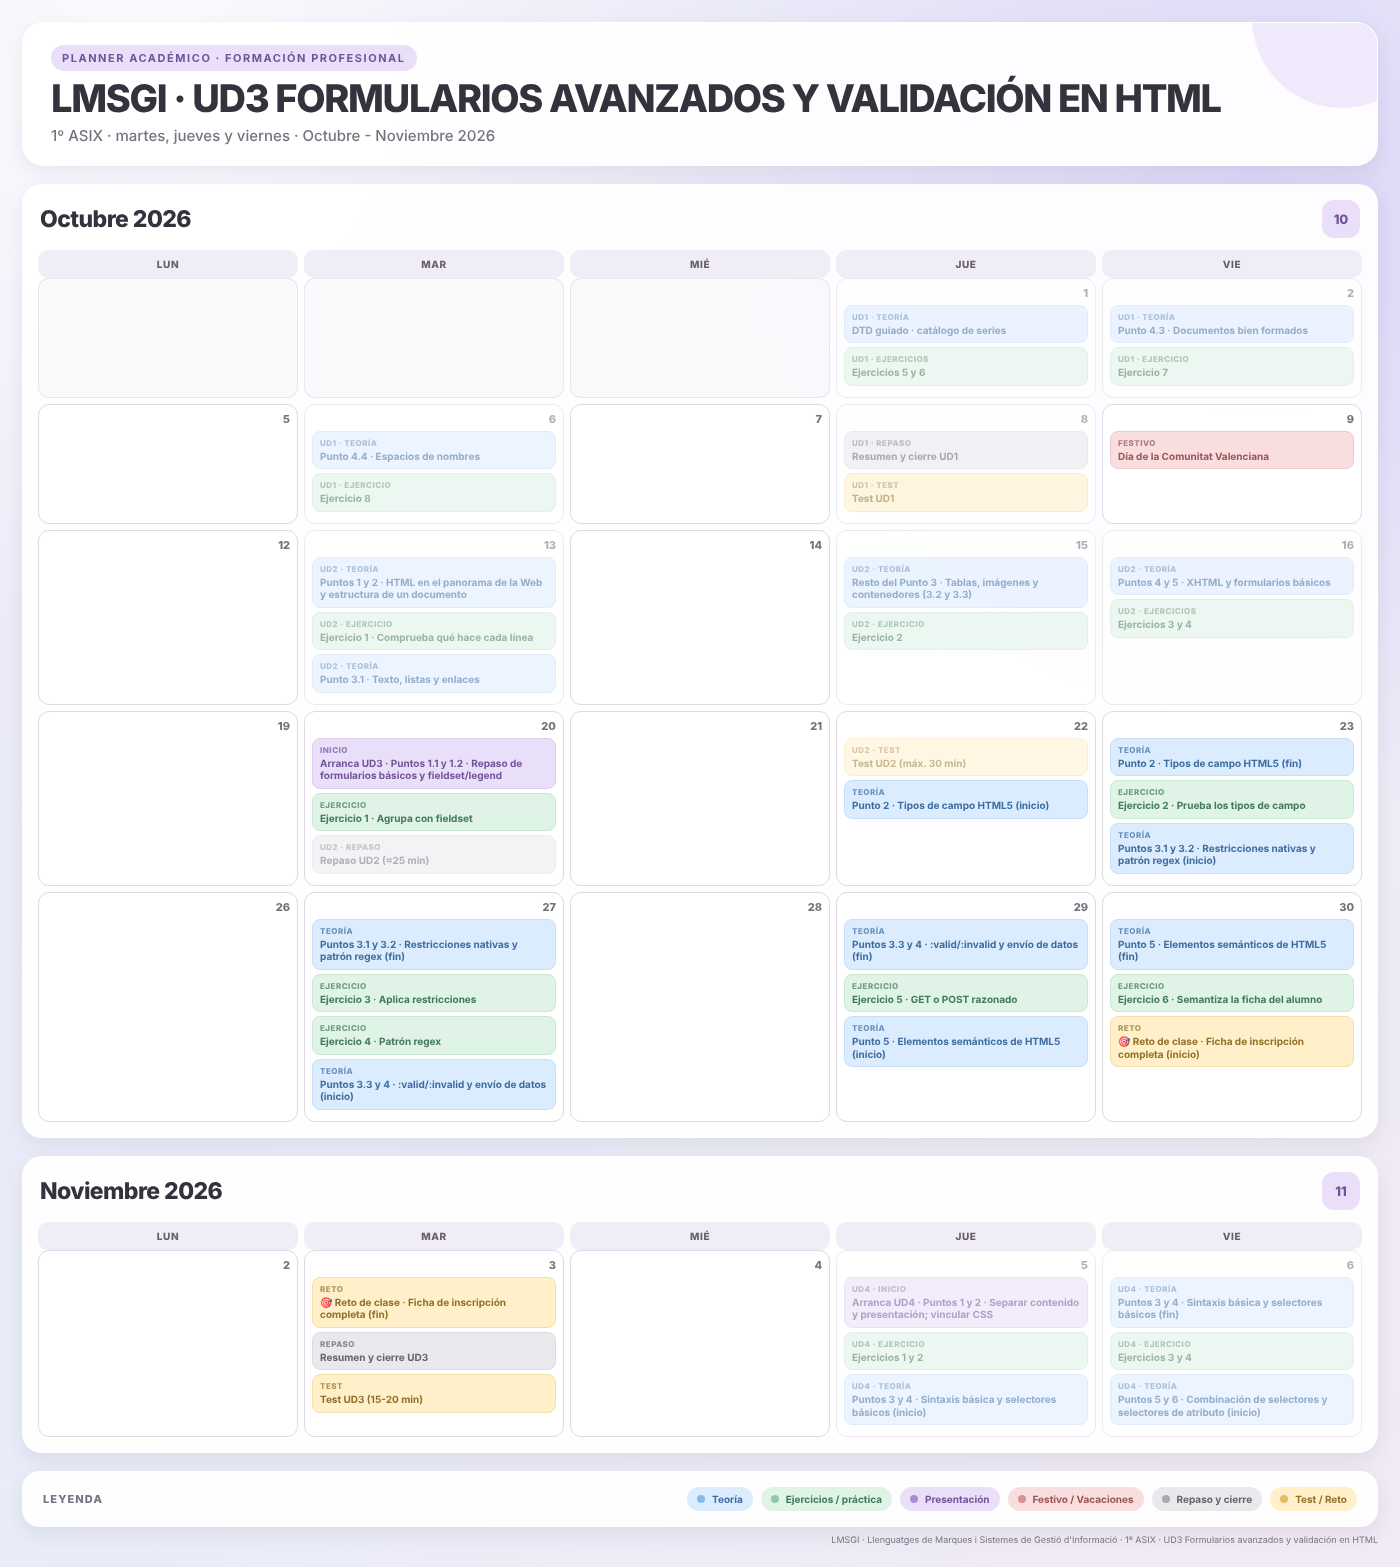
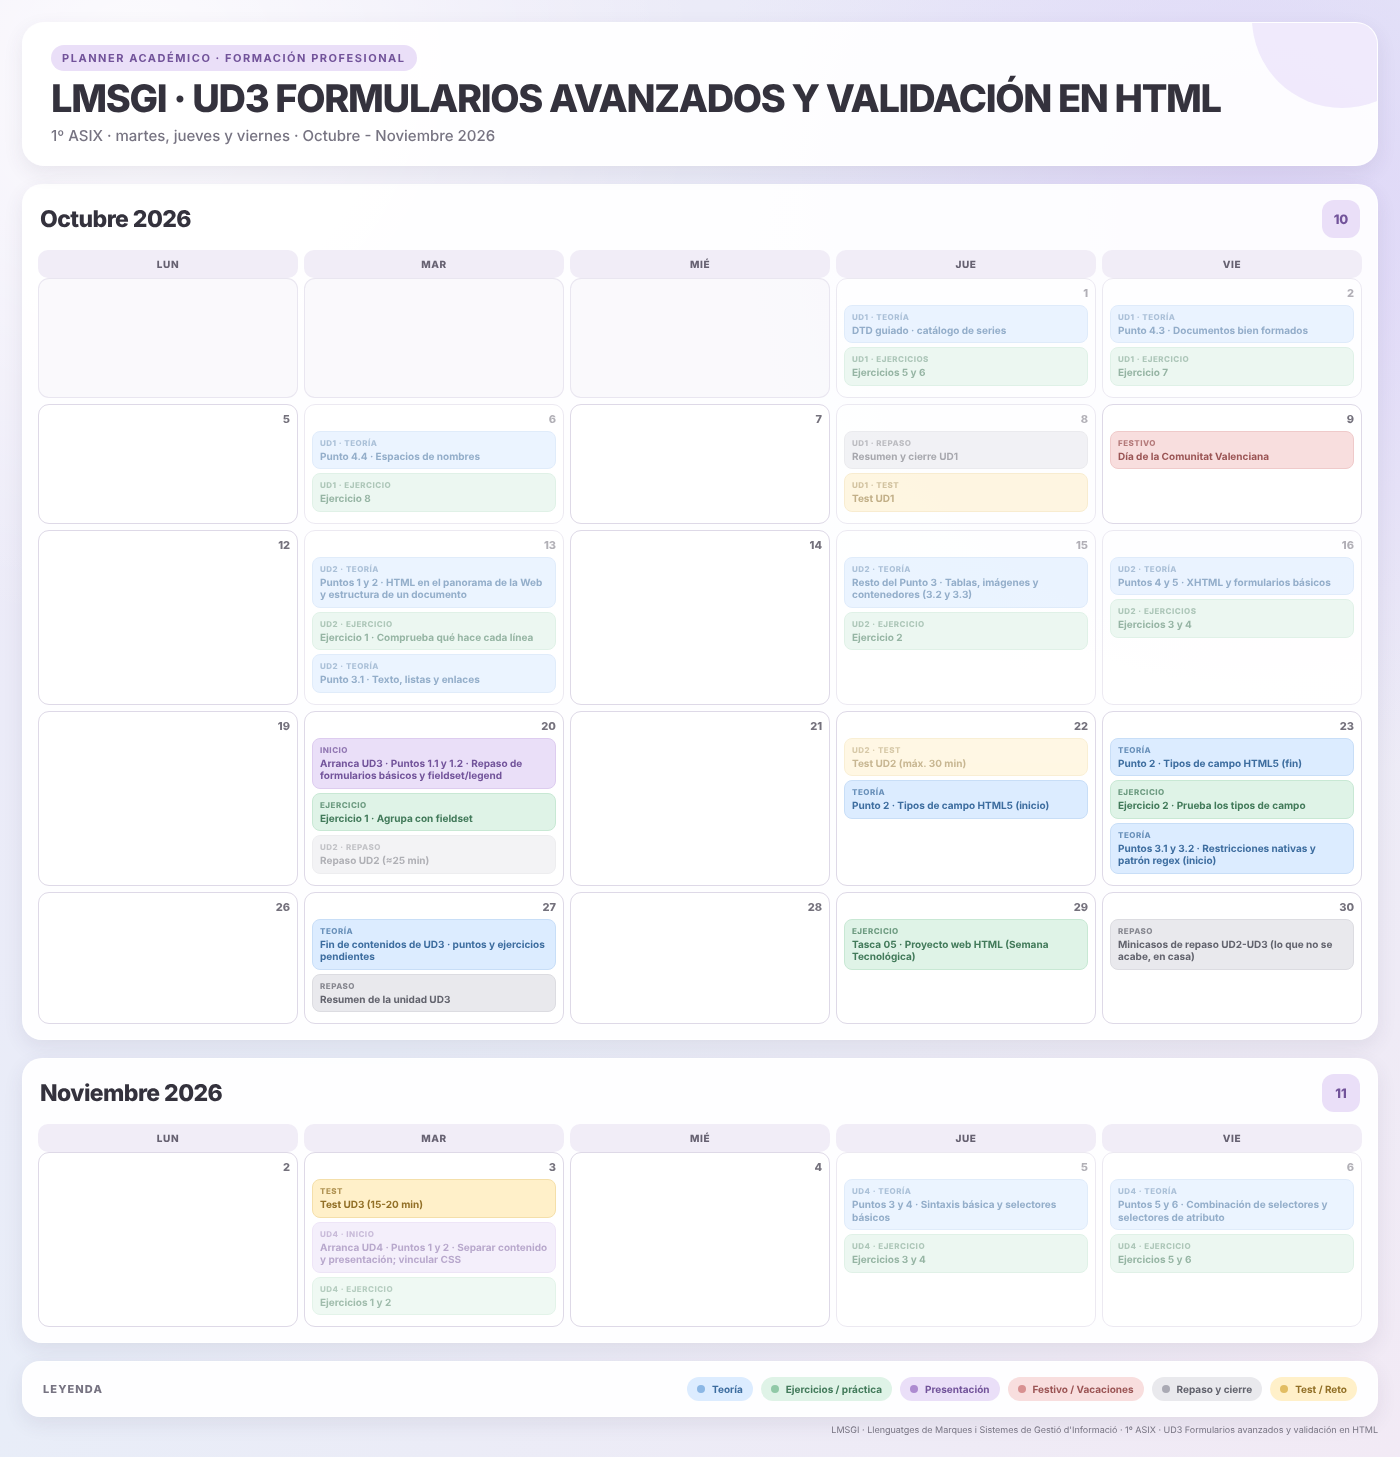
UD2/UD3: corregir normativa accesibilitat (Llei 11/2023) i aclarir main/header/footer; actualitzar calendaris UD2-UD5

diff --git a/LMSGI/UD03-Formularios-Validacion-HTML/UD03_LMSGI_Formularios_Validacion_HTML_valencia.md b/LMSGI/UD03-Formularios-Validacion-HTML/UD03_LMSGI_Formularios_Validacion_HTML_valencia.md
@@ -325,7 +325,9 @@ En la UD2 ja vau construir pàgines amb `<div>` i `<span>` — contenidors genè
 | `<footer>` | Peu de pàgina o de secció — dades de contacte, llicència, enllaços relacionats |
 | `<address>` | Informació de contacte de l'autor — el navegador sol mostrar-la en cursiva |
 
-> 📡 **Per què açò no és només estètica**: en la UD2 (apartat "Per a saber-ne més") ja vam avançar que la normativa europea d'accessibilitat digital (Directiva (UE) 2019/882) obliga bona part de les webs d'administracions i empreses a complir criteris WCAG. Usar `<nav>` en compte d'un `<div class="nav">` no canvia res visualment per defecte, però sí per a un lector de pantalla: anuncia "navegació" en compte d'una caixa genèrica sense significat, exactament el mateix tipus de detall que l'`alt` de les imatges o el `<label for>` dels formularis que ja coneixeu. També ajuda que els buscadors entenguen millor l'estructura de la pàgina en indexar-la.
+> 💡 `<main>` només s'usa **una vegada** per pàgina. `<header>` i `<footer>` sí que es poden repetir: un per a la pàgina i un altre dins de cada `<article>` o `<section>` si cal (el títol d'una notícia, el seu autor...). `<nav>` i `<aside>` també poden aparéixer diverses vegades.
+
+> 📡 **Per què açò no és només estètica**: en la UD2 (apartat "Per a saber-ne més") ja vam avançar que la Directiva (UE) 2019/882 (Llei 11/2023 a Espanya) obliga els serveis de comerç electrònic i altres serveis a consumidors a ser accessibles; com a referència se solen usar els criteris WCAG. Usar `<nav>` en compte d'un `<div class="nav">` no canvia res visualment per defecte, però sí per a un lector de pantalla: anuncia "navegació" en compte d'una caixa genèrica sense significat, exactament el mateix tipus de detall que l'`alt` de les imatges o el `<label for>` dels formularis que ja coneixeu. També ajuda que els buscadors entenguen millor l'estructura de la pàgina en indexar-la.
 
 ⚠ **No substituïxen `<div>`/`<span>`, els complementen**: seguiu usant `<div>` i `<span>` per a agrupar contingut que no encaixa en cap d'aquestes categories amb significat propi — no cal forçar un `<section>` on només fa falta una caixa per a aplicar estils.
 
@@ -372,7 +374,7 @@ El que heu vist ací (camps avançats, validació nativa, semàntica) és la bas
 A data d'aquest curs (2026-2027), convé saber:
 
 - **La validació nativa seguix guanyant terreny**: cada versió dels navegadors afig nous tipus d'`<input>` i atributs de validació, reduint la necessitat de JavaScript per a casos senzills — és una tendència activa, no un estàndard tancat des de fa anys.
-- **Accessibilitat, cada vegada més exigida per llei**: com ja es va apuntar en la UD2, la normativa europea (Directiva (UE) 2019/882) obliga a auditar criteris WCAG en webs d'administracions i empreses — un `<label for>` ben associat o un `<nav>` en compte d'un `<div>` són exactament el tipus de detall auditat, i ja els heu usat en aquesta unitat.
+- **Accessibilitat, cada vegada més exigida per llei**: com ja es va apuntar en la UD2, la Directiva (UE) 2019/882 (Llei 11/2023 a Espanya) obliga els serveis de comerç electrònic i altres serveis a consumidors a ser accessibles — un `<label for>` ben associat o un `<nav>` en compte d'un `<div>` són exactament el tipus de detall auditat, i ja els heu usat en aquesta unitat.
 - **Frameworks de formularis**: en projectes grans (sobretot amb JavaScript, que veureu en la UD6) és habitual recolzar-se en llibreries que gestionen la validació i l'enviament de formularis de manera més avançada — però totes elles parteixen exactament dels atributs HTML natius vistos ací, no els substituïxen.
 
 - MDN — Formularis HTML: https://developer.mozilla.org/es/docs/Learn/Forms

diff --git a/LMSGI/UD02-Utilizacion-LM-Web/UD02_LMSGI_Utilizacion_LM_Web.md b/LMSGI/UD02-Utilizacion-LM-Web/UD02_LMSGI_Utilizacion_LM_Web.md
@@ -306,7 +306,7 @@ Lo que habéis visto aquí (estructura, etiquetas, atributos) es la base mínima
 
 A fecha de este curso (2026-2027), conviene saber que el ecosistema alrededor de HTML sigue cambiando activamente en varios frentes:
 
-- **Accesibilidad, cada vez más exigida por ley**: la normativa europea de accesibilidad digital (Directiva (UE) 2019/882, trasladada a España por el Real Decreto 1112/2018 y su desarrollo posterior) obliga a que buena parte de las webs de administraciones y empresas cumplan criterios **WCAG**. El `alt` de las imágenes que habéis usado en el punto 3.3, o el `<label for>` de los formularios del punto 5, no son un capricho — son exactamente el tipo de detalle que se audita.
+- **Accesibilidad, cada vez más exigida por ley**: la Directiva (UE) 2019/882, trasladada a España por la Ley 11/2023 y aplicable desde el 28 de junio de 2025, obliga a las empresas que venden a consumidores por internet (comercio electrónico, banca, transporte...) a ofrecer servicios accesibles; el sector público tiene su propia norma. Se suele tomar como referencia los criterios **WCAG**. El `alt` de las imágenes que habéis usado en el punto 3.3, o el `<label for>` de los formularios del punto 5, no son un capricho — son exactamente el tipo de detalle que se audita.
 - **Elementos semánticos**: HTML5 incorporó etiquetas como `<header>`, `<nav>`, `<main>`, `<article>` o `<footer>`, que describen el significado de cada bloque en vez de usar siempre `<div>`. No las hemos usado todavía (las veréis con más detalle al trabajar con CSS en la UD4-5), pero son la forma recomendada hoy de estructurar una página real.
 - **Los tres motores de navegador**: prácticamente todo lo que veis en pantalla lo renderiza uno de tres motores — Blink (Chrome, Edge, Opera y la mayoría de navegadores basados en Chromium), WebKit (Safari) o Gecko (Firefox, el que usáis en el aula). Cuando una página se ve distinta según el navegador, casi siempre es una diferencia entre estos tres motores interpretando el mismo HTML.
 

diff --git a/LMSGI/UD02-Utilizacion-LM-Web/UD02_LMSGI_Utilizacion_LM_Web_valencia.md b/LMSGI/UD02-Utilizacion-LM-Web/UD02_LMSGI_Utilizacion_LM_Web_valencia.md
@@ -306,7 +306,7 @@ El que heu vist ací (estructura, etiquetes, atributs) és la base mínima amb q
 
 A data d'este curs (2026-2027), convé saber que l'ecosistema al voltant d'HTML continua canviant activament en diversos fronts:
 
-- **Accessibilitat, cada vegada més exigida per llei**: la normativa europea d'accessibilitat digital (Directiva (UE) 2019/882, traslladada a Espanya pel Reial Decret 1112/2018 i el seu desenvolupament posterior) obliga que bona part de les webs d'administracions i empreses complisquen criteris **WCAG**. L'`alt` de les imatges que heu usat en el punt 3.3, o el `<label for>` dels formularis del punt 5, no són un capritx — són exactament el tipus de detall que s'audita.
+- **Accessibilitat, cada vegada més exigida per llei**: la Directiva (UE) 2019/882, traslladada a Espanya per la Llei 11/2023 i aplicable des del 28 de juny de 2025, obliga les empreses que venen a consumidors per internet (comerç electrònic, banca, transport...) a oferir serveis accessibles; el sector públic té la seua pròpia norma. Se sol prendre com a referència els criteris **WCAG**. L'`alt` de les imatges que heu usat en el punt 3.3, o el `<label for>` dels formularis del punt 5, no són un capritx — són exactament el tipus de detall que s'audita.
 - **Elements semàntics**: HTML5 va incorporar etiquetes com `<header>`, `<nav>`, `<main>`, `<article>` o `<footer>`, que descriuen el significat de cada bloc en compte d'usar sempre `<div>`. No les hem usat encara (les veureu amb més detall en treballar amb CSS en la UD4-5), però són la forma recomanada hui d'estructurar una pàgina real.
 - **Els tres motors de navegador**: pràcticament tot el que veeu en pantalla el renderitza un de tres motors — Blink (Chrome, Edge, Opera i la majoria de navegadors basats en Chromium), WebKit (Safari) o Gecko (Firefox, el que useu a l'aula). Quan una pàgina es veu distinta segons el navegador, quasi sempre és una diferència entre estos tres motors interpretant el mateix HTML.
 
